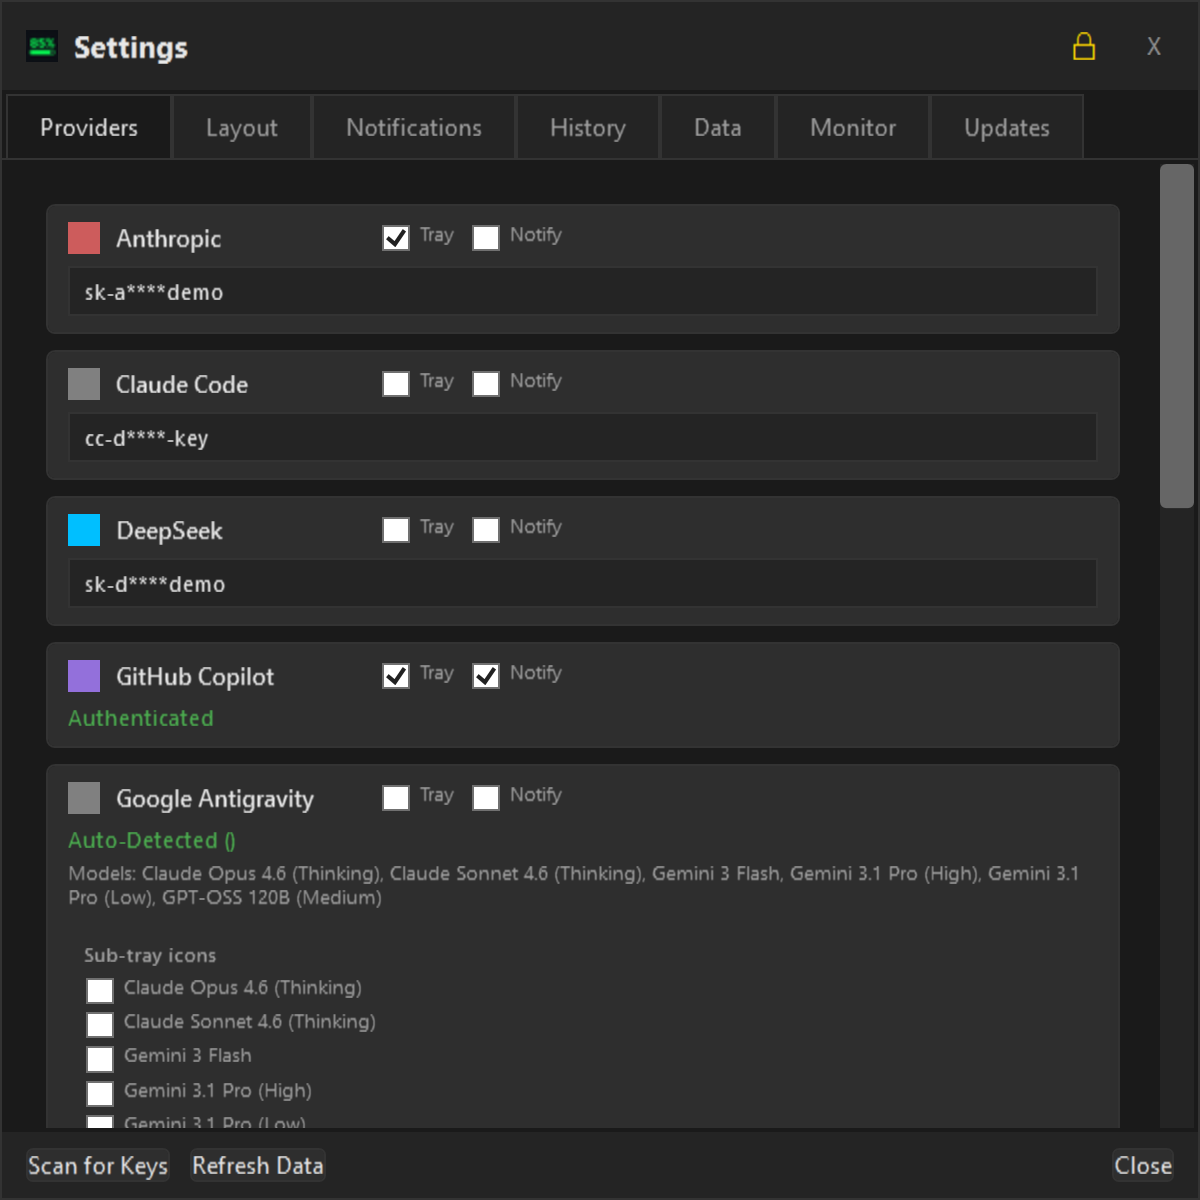
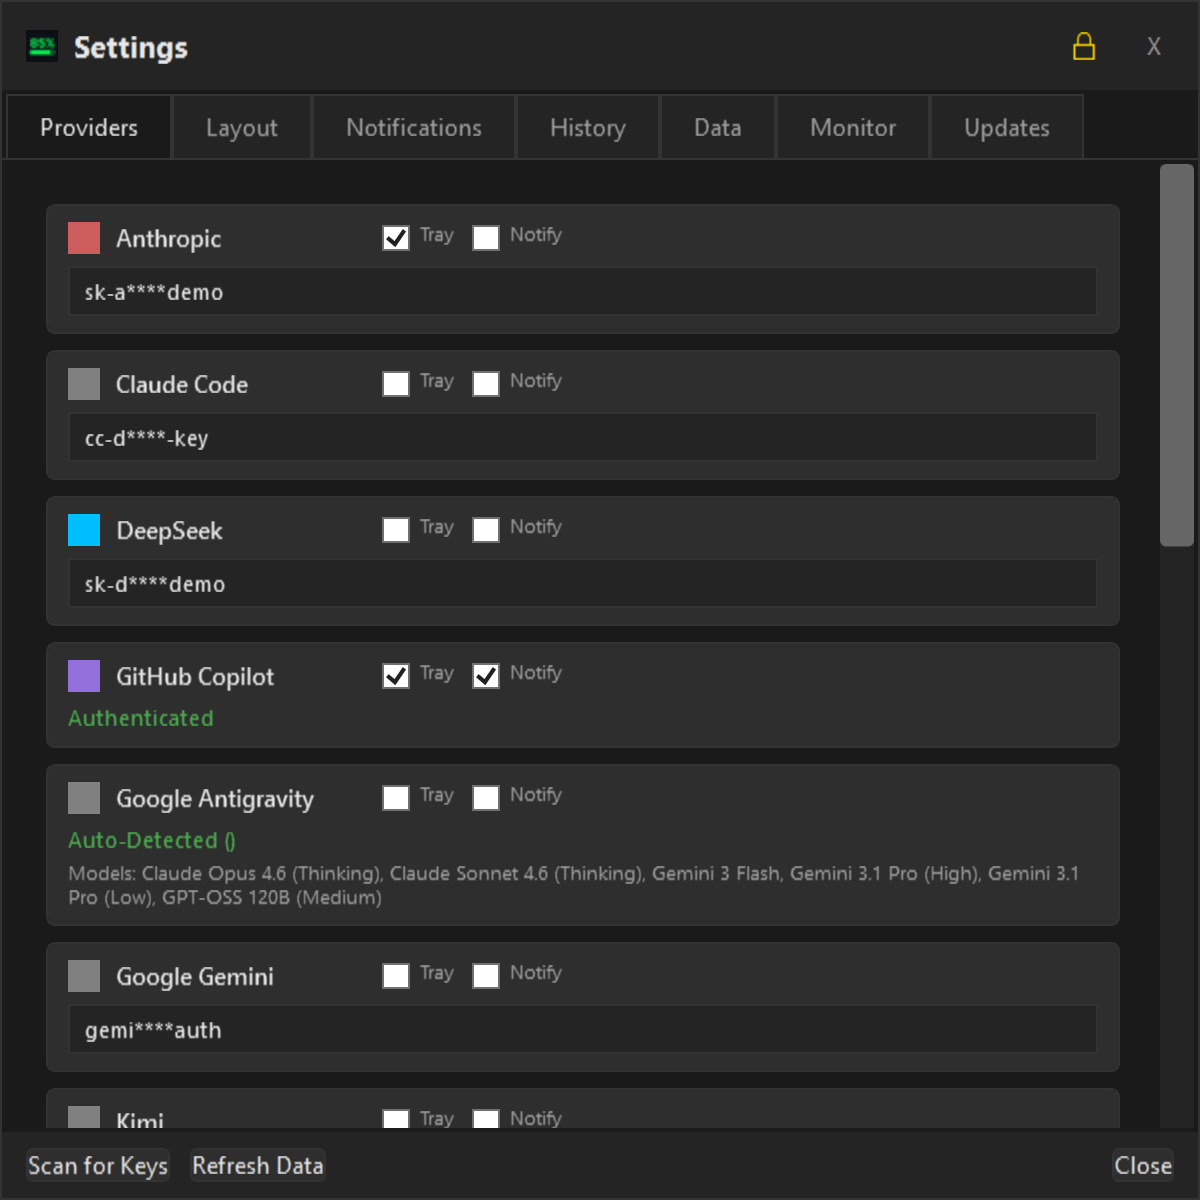
Fix theme manifest check and sync screenshot baselines

Changed region(s): [[0.0308, 0.7708, 0.4625, 0.9558], [0.3083, 0.925, 0.4625, 0.9558], [0.9558, 0.4008, 1.0, 0.4625]]

diff --git a/CHANGELOG.md b/CHANGELOG.md
@@ -11,12 +11,14 @@
 - **Provider detail rendering**: Slim UI, Web UI, and CLI now filter/render detail rows from typed fields (`DetailType`/`WindowKind`) instead of name-based string heuristics.
 - **Provider mappings**: Updated providers that emit detail rows to set explicit `DetailType`/`WindowKind` metadata.
 - **CI test safeguards**: Tightened test timeouts and added explicit hang-detection/process-tree termination in test workflows/scripts.
+- **Theme catalog metadata**: Updated `design/theme-catalog.json` metadata stamp to keep theme-manifest validation authoritative.
 
 ### Fixed
 - **Stale monitor metadata recovery**: Monitor clients now validate both health endpoint and PID, then invalidate stale metadata before discovery/restart.
 - **Metadata path compatibility**: Monitor metadata read/write now supports root plus `Monitor/` and `Agent/` paths for both `AIUsageTracker` and legacy `AIConsumptionTracker`.
 - **Detail contract enforcement flow**: Monitor refresh now applies validated detail payloads when filtering/storing provider results.
 - **Monitor database diagnostics**: Replaced debug-only database write errors with structured logger error output.
+- **Slim UI screenshot baseline drift**: Synced CI-authoritative baseline images for dashboard and settings privacy screenshots.
 
 ## [2.2.27-beta.5] - 2026-03-01
 
